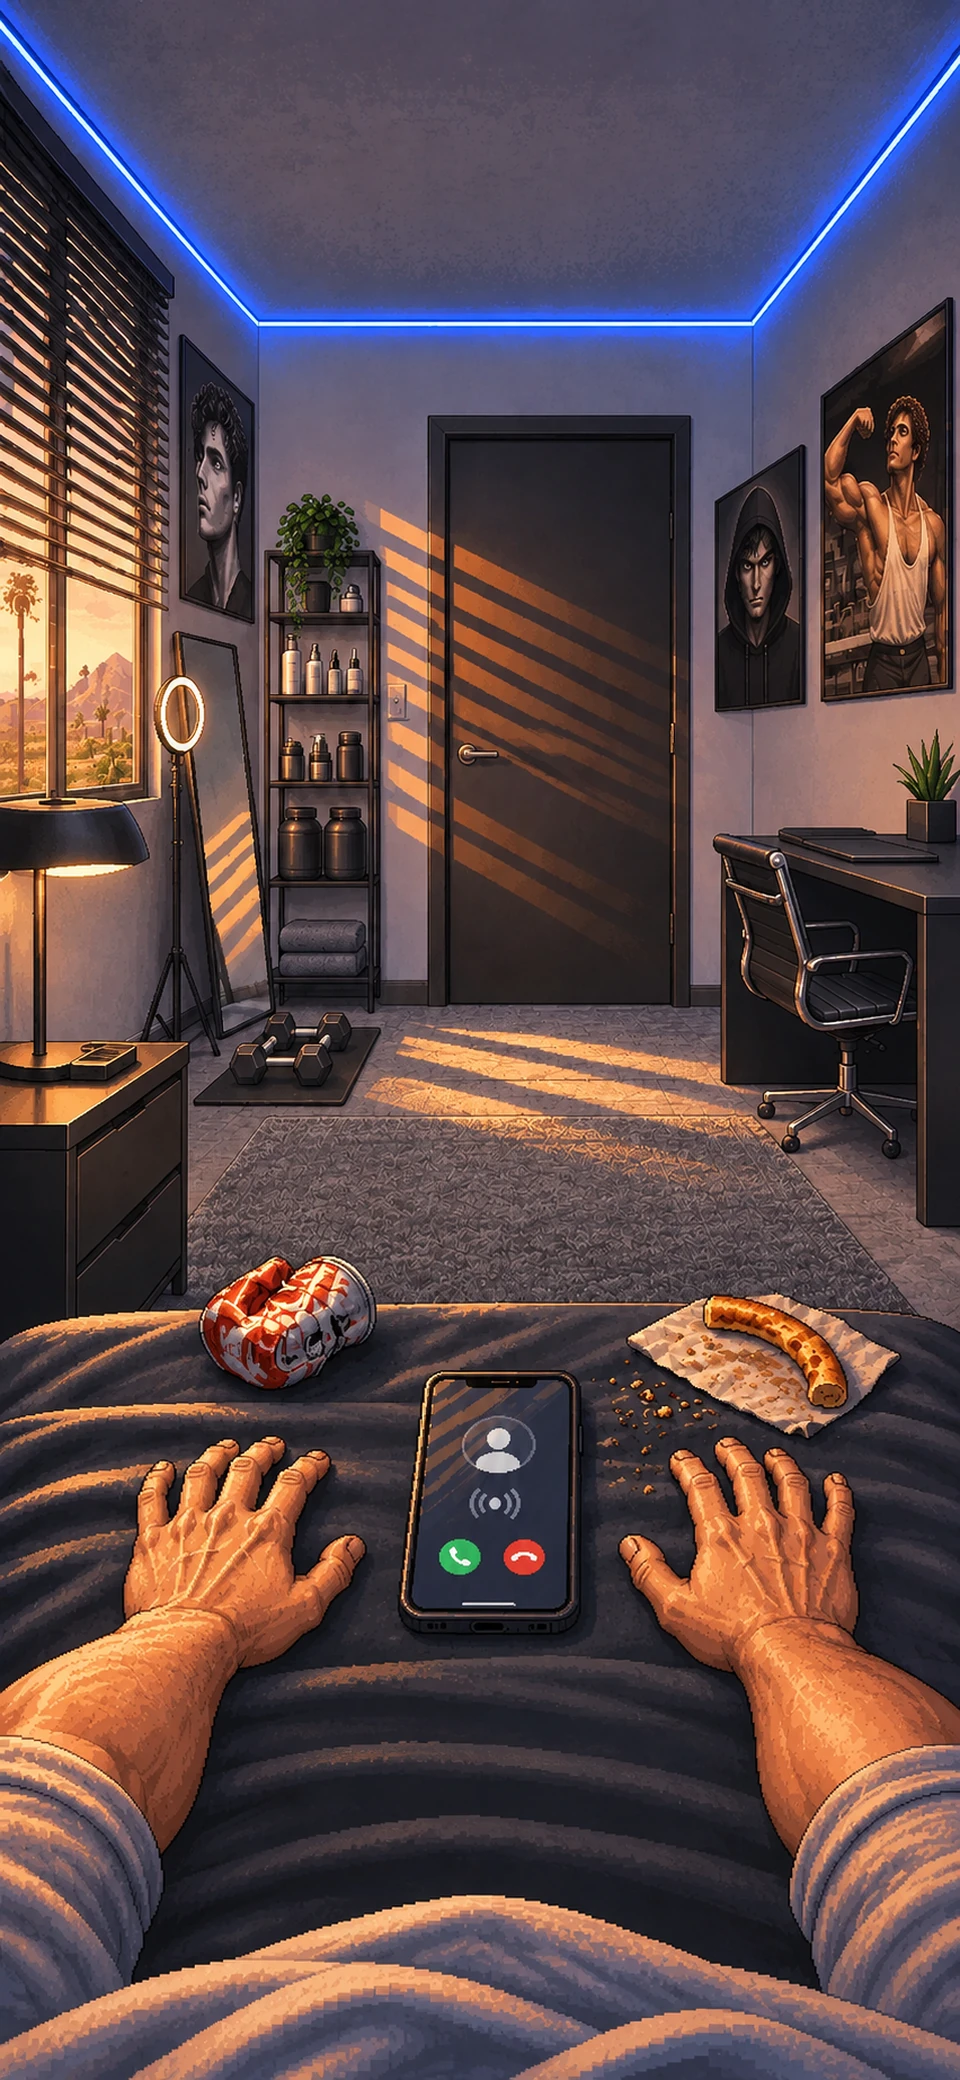
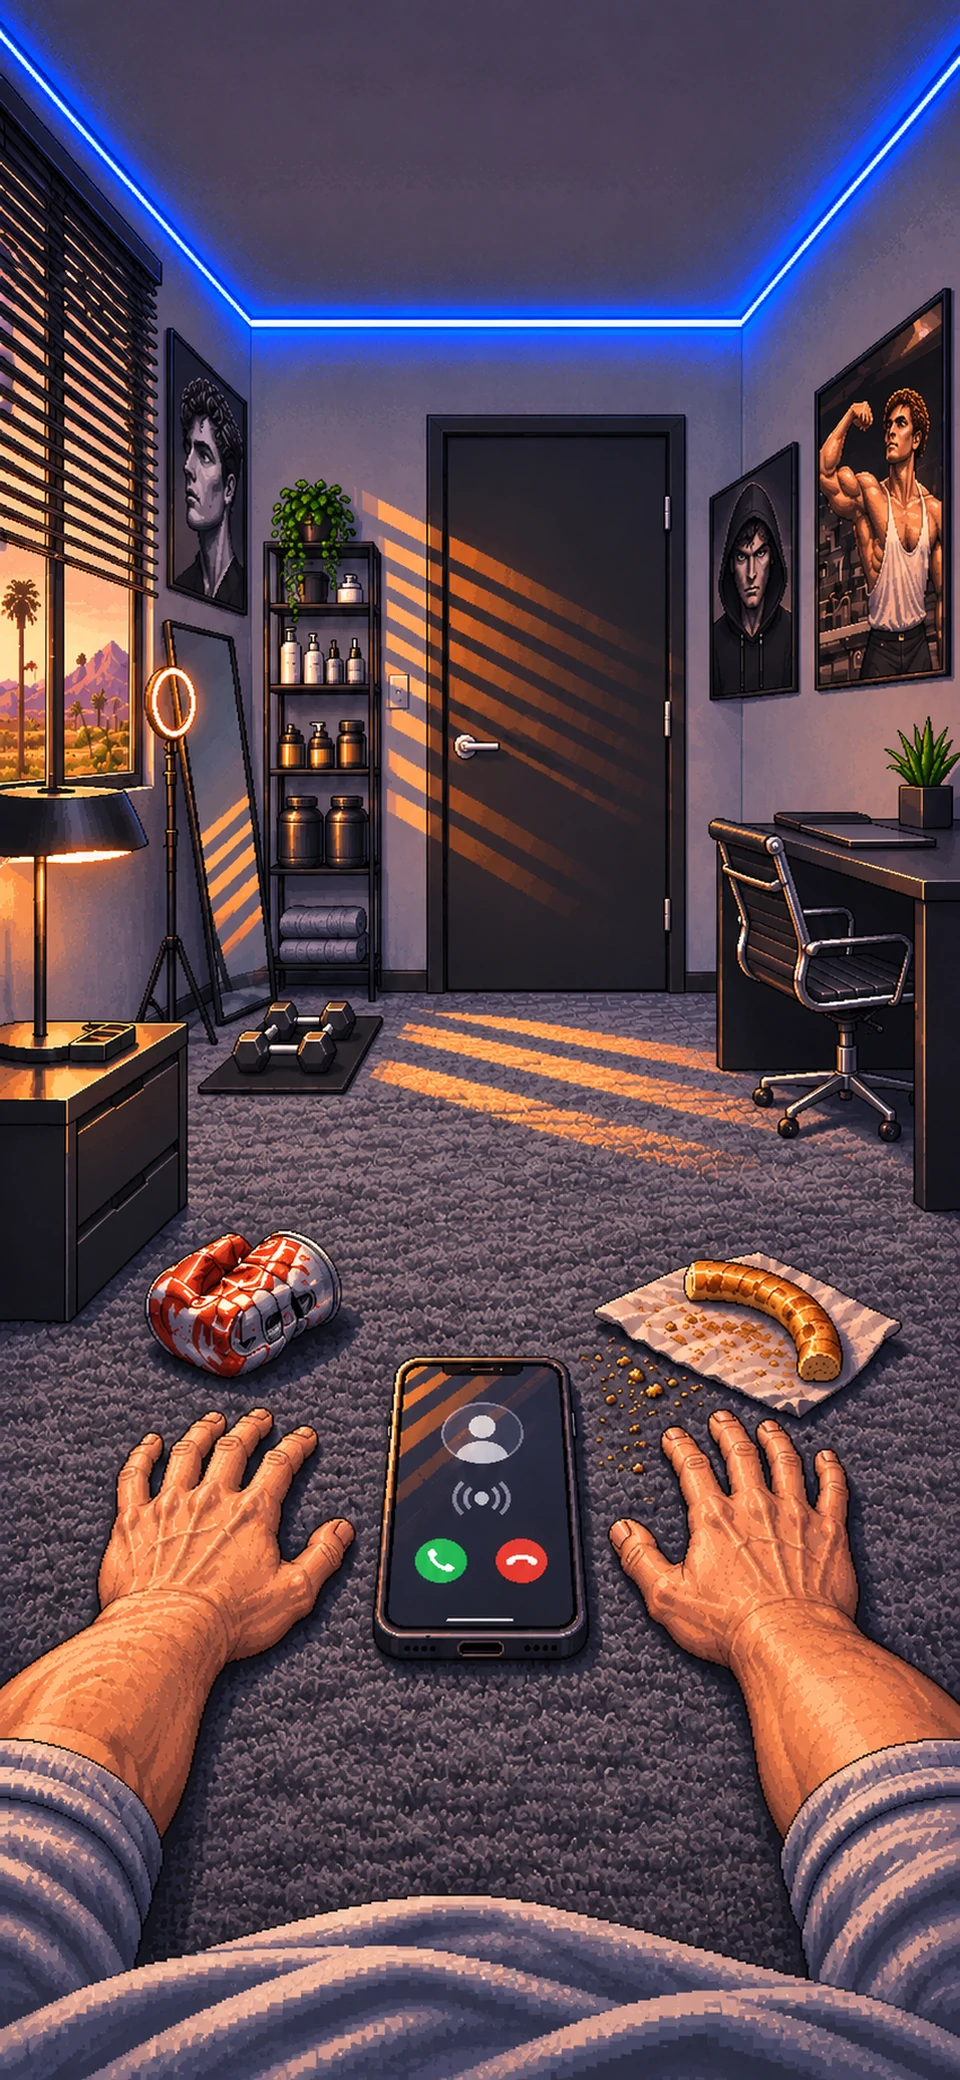
The Looksmaxxer's room: all 88 frames

diff --git a/index.html b/index.html
@@ -1,5 +1,5 @@
 <!doctype html>
-<html lang="en" data-build="7259bea81d">
+<html lang="en" data-build="cbecf8a0f5">
 <head>
   <meta charset="utf-8">
   <meta name="viewport" content="width=device-width,initial-scale=1,viewport-fit=cover">
@@ -781,11 +781,11 @@
     @media(max-width: 730px) { .workbench { display: flex; flex-direction: column; gap: 16px; padding: 17px; } aside { padding: 2px; } h1 { font-size: 32px; } .settings { margin-top: 12px; } .preview-area { padding-top: 0; } }
   </style>
   <!-- Task 2: Chapel at Midnight quest engine. The standalone build inlines it. -->
-  <script src="chapel_at_midnight.js?v=7259bea81d"></script>
+  <script src="chapel_at_midnight.js?v=cbecf8a0f5"></script>
   <!-- Marriage: the Sisters of Mercy (and the Bluebird wedding), the only victories. The standalone build inlines it. -->
-  <script src="marriage.js?v=7259bea81d"></script>
+  <script src="marriage.js?v=cbecf8a0f5"></script>
   <!-- Professor Vale: "The Professor Who Won't Disappear". The standalone build inlines it. -->
-  <script src="quests/professor-vale.js?v=7259bea81d"></script>
+  <script src="quests/professor-vale.js?v=cbecf8a0f5"></script>
 <style>html,body{width:100%;height:100%;overflow:hidden}.workbench>aside,.device-label,.preview-area>.tip{display:none!important}.workbench{display:block;width:100%;height:100%;min-height:0;max-width:none;margin:0;padding:0}.preview-area{width:100%;height:100%;padding:0}.stage-holder{border:0;border-radius:0;box-shadow:none}.phone-wrap{max-width:414px}</style></head>
 <body>
   <main class="workbench">

diff --git a/testing.html b/testing.html
@@ -1,5 +1,5 @@
 <!doctype html>
-<html lang="en" data-build="7259bea81d">
+<html lang="en" data-build="cbecf8a0f5">
 <head>
   <meta charset="utf-8">
   <meta name="viewport" content="width=device-width,initial-scale=1,viewport-fit=cover">
@@ -781,11 +781,11 @@
     @media(max-width: 730px) { .workbench { display: flex; flex-direction: column; gap: 16px; padding: 17px; } aside { padding: 2px; } h1 { font-size: 32px; } .settings { margin-top: 12px; } .preview-area { padding-top: 0; } }
   </style>
   <!-- Task 2: Chapel at Midnight quest engine. The standalone build inlines it. -->
-  <script src="chapel_at_midnight.js?v=7259bea81d"></script>
+  <script src="chapel_at_midnight.js?v=cbecf8a0f5"></script>
   <!-- Marriage: the Sisters of Mercy (and the Bluebird wedding), the only victories. The standalone build inlines it. -->
-  <script src="marriage.js?v=7259bea81d"></script>
+  <script src="marriage.js?v=cbecf8a0f5"></script>
   <!-- Professor Vale: "The Professor Who Won't Disappear". The standalone build inlines it. -->
-  <script src="quests/professor-vale.js?v=7259bea81d"></script>
+  <script src="quests/professor-vale.js?v=cbecf8a0f5"></script>
 </head>
 <body>
   <main class="workbench">
